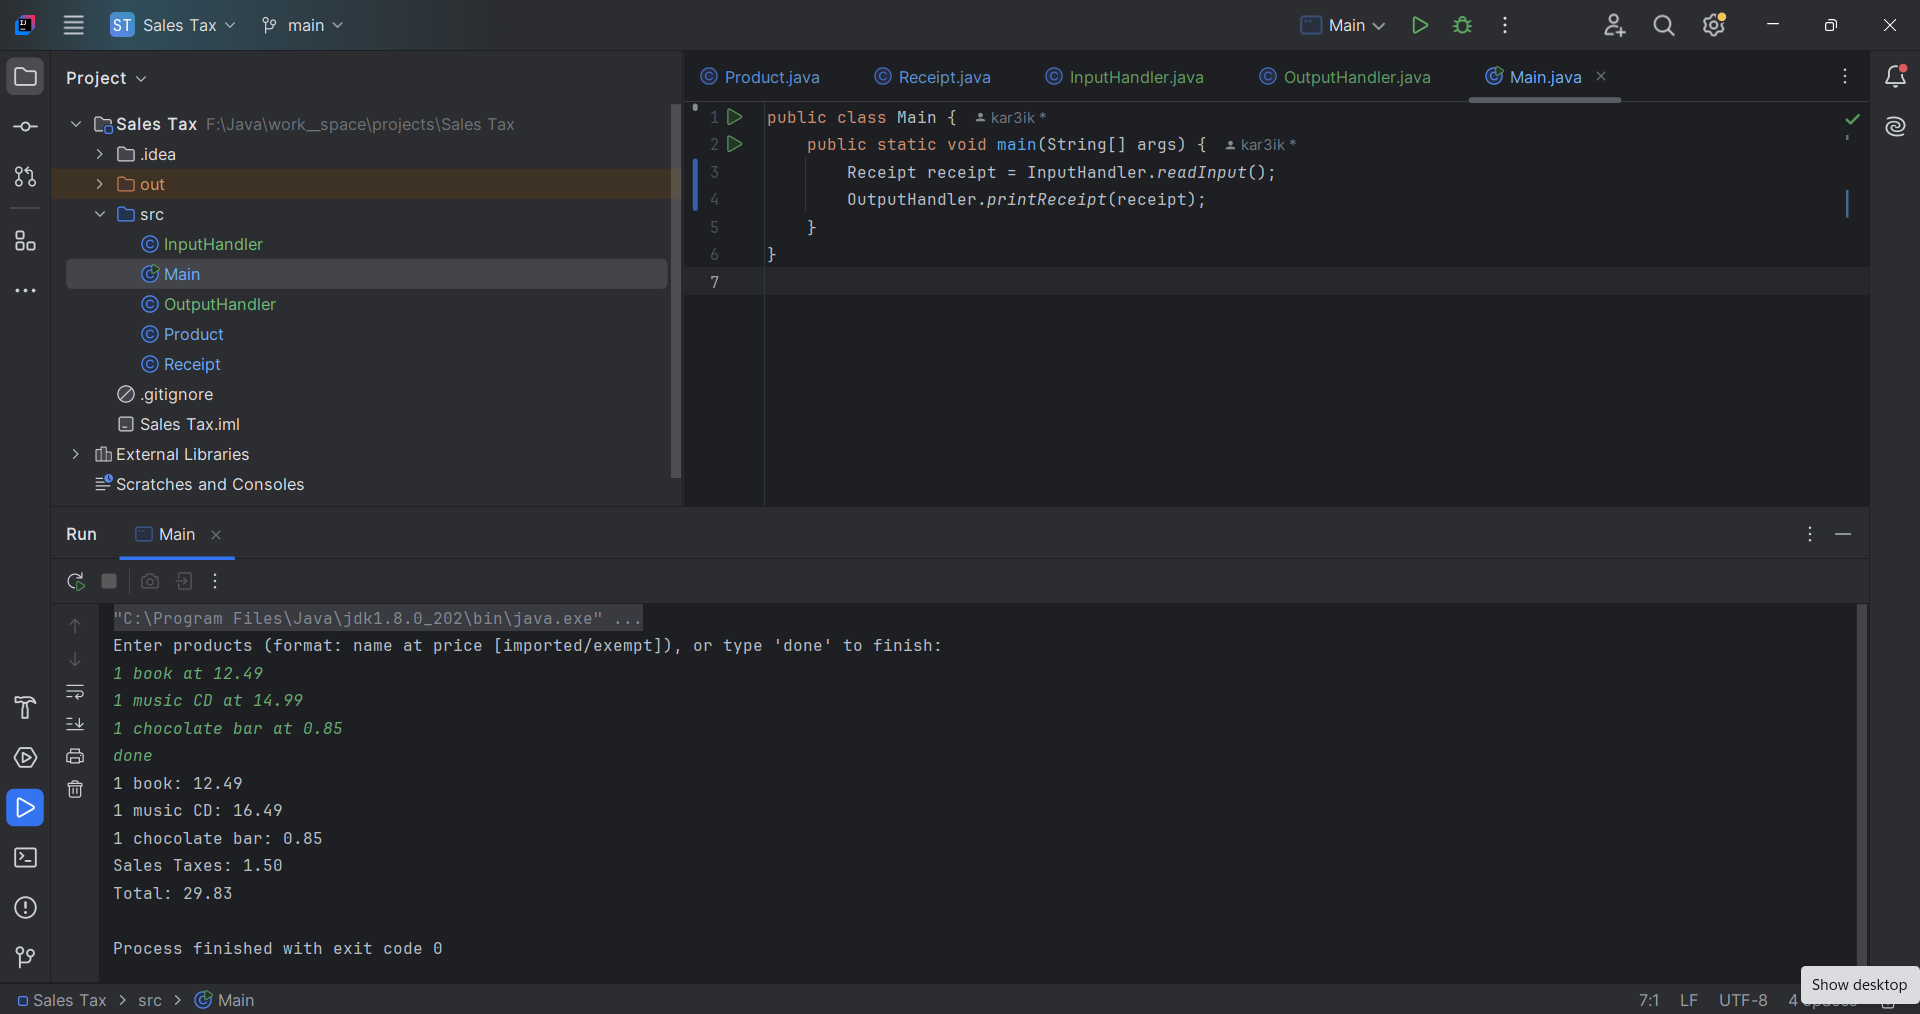
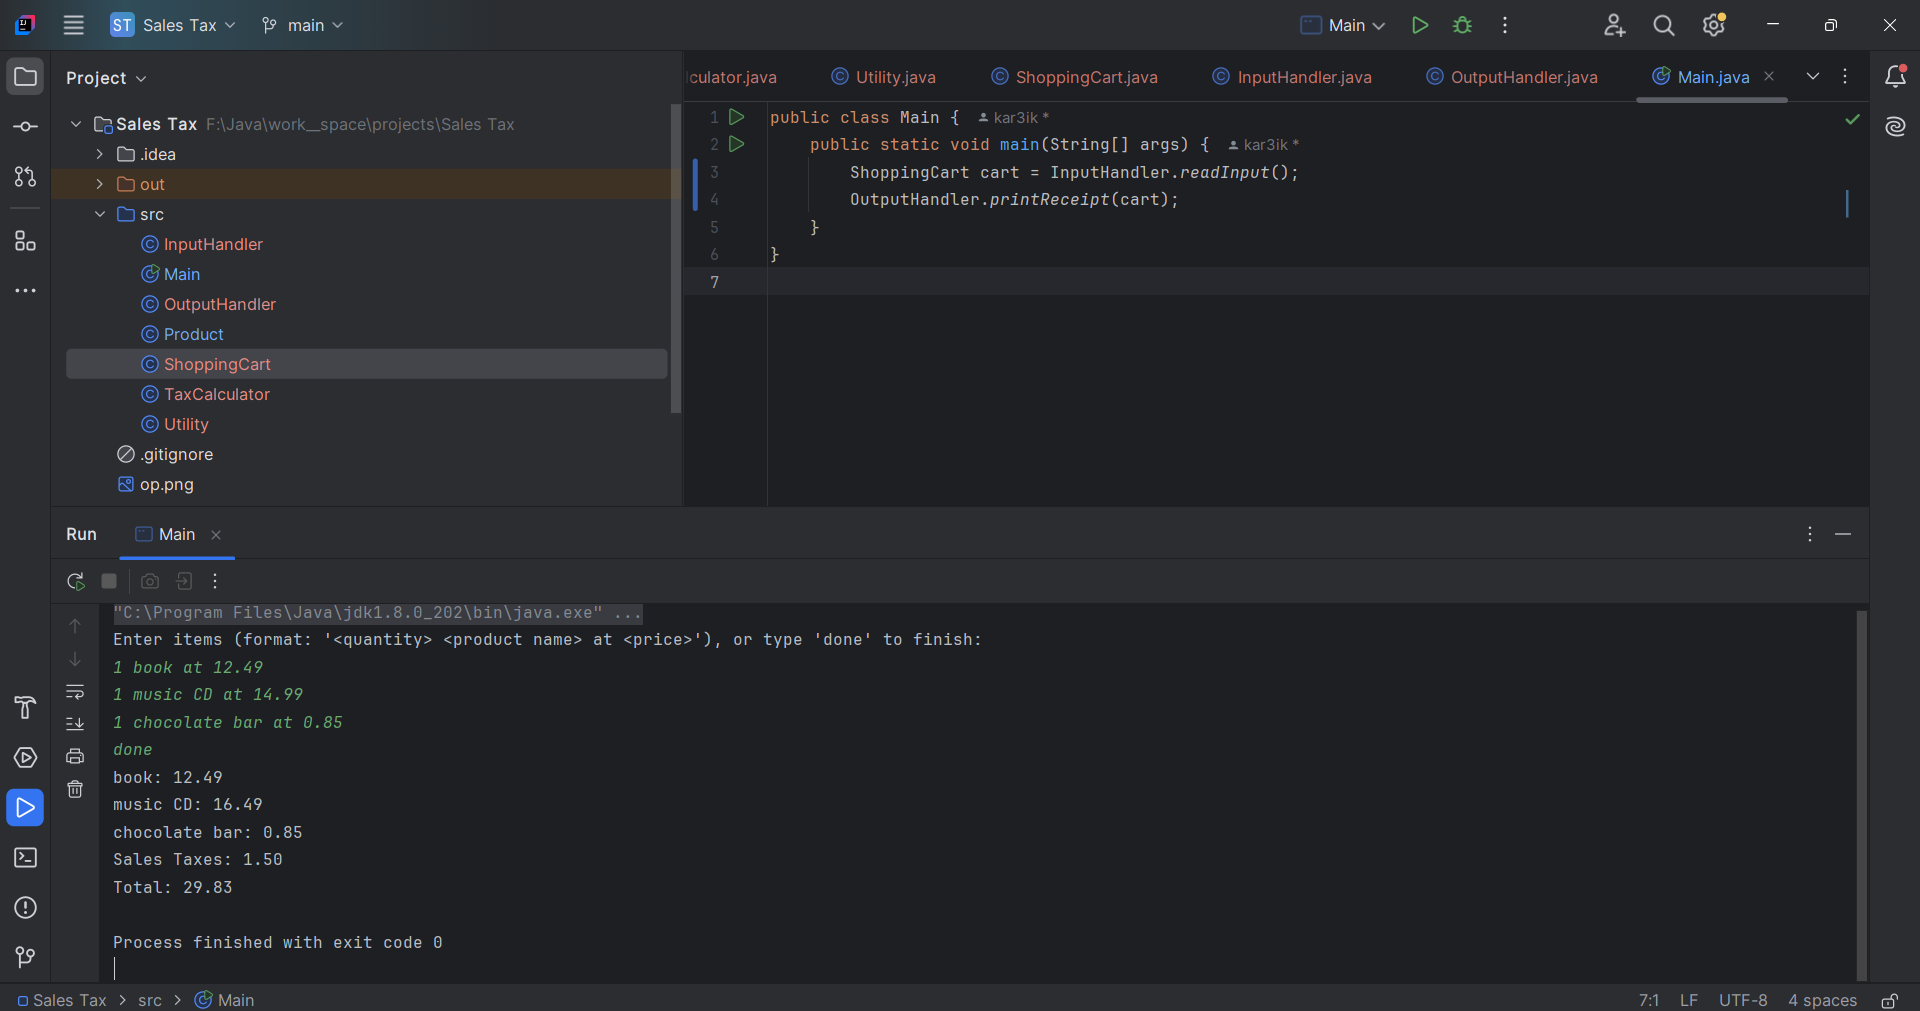
Refactored code to improve modularity and match input/output format

diff --git a/Sales Tax/src/InputHandler.java b/Sales Tax/src/InputHandler.java
@@ -1,11 +1,11 @@
 import java.util.Scanner;
 
 public class InputHandler {
-    public static Receipt readInput() {
+    public static ShoppingCart readInput() {
         Scanner scanner = new Scanner(System.in);
-        Receipt receipt = new Receipt();
+        ShoppingCart cart = new ShoppingCart();
 
-        System.out.println("Enter products (format: name at price [imported/exempt]), or type 'done' to finish:");
+        System.out.println("Enter items (format: '<quantity> <product name> at <price>'), or type 'done' to finish:");
 
         while (scanner.hasNextLine()) {
             String line = scanner.nextLine().trim();
@@ -17,14 +17,21 @@ public class InputHandler {
                 continue;
             }
 
-            String name = parts[0].trim();
+            String nameAndQuantity = parts[0].trim();
             double price = Double.parseDouble(parts[1].trim());
+
+            String[] nameParts = nameAndQuantity.split(" ", 2);
+            int quantity = Integer.parseInt(nameParts[0].trim());
+            String name = nameParts[1].trim();
+
             boolean isImported = name.contains("imported");
             boolean isExempt = name.contains("book") || name.contains("chocolate") || name.contains("pill");
 
-            receipt.addProduct(new Product(name, price, isImported, isExempt));
+            for (int i = 0; i < quantity; i++) {
+                cart.addProduct(new Product(name, price, isImported, isExempt));
+            }
         }
         scanner.close();
-        return receipt;
+        return cart;
     }
 }

diff --git a/Sales Tax/src/Product.java b/Sales Tax/src/Product.java
@@ -3,39 +3,27 @@ public class Product {
     private double price;
     private boolean isImported;
     private boolean isExempt;
-    private double tax;
-
-    private static final double BASIC_SALES_TAX_RATE = 0.10;
-    private static final double IMPORT_DUTY_RATE = 0.05;
 
     public Product(String name, double price, boolean isImported, boolean isExempt) {
         this.name = name;
         this.price = price;
         this.isImported = isImported;
         this.isExempt = isExempt;
-        this.tax = calculateTax();
     }
 
-    private double calculateTax() {
-        double basicTax = isExempt ? 0 : price * BASIC_SALES_TAX_RATE;
-        double importTax = isImported ? price * IMPORT_DUTY_RATE : 0;
-        return roundToNearest05(basicTax + importTax);
+    public String getName() {
+        return name;
     }
 
-    private double roundToNearest05(double amount) {
-        return Math.ceil(amount * 20) / 20.0;
+    public double getPrice() {
+        return price;
     }
 
-    public double getPriceAfterTax() {
-        return price + tax;
+    public boolean isImported() {
+        return isImported;
     }
 
-    public double getTax() {
-        return tax;
-    }
-
-    @Override
-    public String toString() {
-        return name + ": " + String.format("%.2f", getPriceAfterTax());
+    public boolean isExempt() {
+        return isExempt;
     }
 }

diff --git a/Sales Tax/src/OutputHandler.java b/Sales Tax/src/OutputHandler.java
@@ -1,10 +1,15 @@
-import java.util.List;
-
 public class OutputHandler {
-    public static void printReceipt(Receipt receipt) {
-        List<String> lines = receipt.generateReceipt();
-        for (String line : lines) {
-            System.out.println(line);
+    public static void printReceipt(ShoppingCart cart) {
+        double totalTax = cart.calculateTotalTax();
+        double totalPrice = cart.calculateTotalPrice();
+
+        for (Product product : cart.getProducts()) {
+            double tax = TaxCalculator.calculateTax(product);
+            System.out.println(product.getName() + ": " +
+                    String.format("%.2f", product.getPrice() + tax));
         }
+
+        System.out.println("Sales Taxes: " + String.format("%.2f", totalTax));
+        System.out.println("Total: " + String.format("%.2f", totalPrice));
     }
 }

diff --git a/Sales Tax/src/ShoppingCart.java b/Sales Tax/src/ShoppingCart.java
@@ -1,0 +1,30 @@
+import java.util.ArrayList;
+import java.util.List;
+
+public class ShoppingCart {
+    private List<Product> products;
+
+    public ShoppingCart() {
+        this.products = new ArrayList<>();
+    }
+
+    public void addProduct(Product product) {
+        products.add(product);
+    }
+
+    public List<Product> getProducts() {
+        return products;
+    }
+
+    public double calculateTotalTax() {
+        return products.stream()
+                .mapToDouble(TaxCalculator::calculateTax)
+                .sum();
+    }
+
+    public double calculateTotalPrice() {
+        return products.stream()
+                .mapToDouble(product -> product.getPrice() + TaxCalculator.calculateTax(product))
+                .sum();
+    }
+}

diff --git a/Sales Tax/src/TaxCalculator.java b/Sales Tax/src/TaxCalculator.java
@@ -1,0 +1,10 @@
+public class TaxCalculator {
+    private static final double BASIC_SALES_TAX_RATE = 0.10;
+    private static final double IMPORT_DUTY_RATE = 0.05;
+
+    public static double calculateTax(Product product) {
+        double basicTax = product.isExempt() ? 0 : product.getPrice() * BASIC_SALES_TAX_RATE;
+        double importTax = product.isImported() ? product.getPrice() * IMPORT_DUTY_RATE : 0;
+        return Utility.roundToNearest05(basicTax + importTax);
+    }
+}

diff --git a/Sales Tax/src/Main.java b/Sales Tax/src/Main.java
@@ -1,6 +1,6 @@
 public class Main {
     public static void main(String[] args) {
-        Receipt receipt = InputHandler.readInput();
-        OutputHandler.printReceipt(receipt);
+        ShoppingCart cart = InputHandler.readInput();
+        OutputHandler.printReceipt(cart);
     }
 }

diff --git a/Sales Tax/src/Utility.java b/Sales Tax/src/Utility.java
@@ -1,0 +1,5 @@
+public class Utility {
+    public static double roundToNearest05(double amount) {
+        return Math.ceil(amount * 20) / 20.0;
+    }
+}
